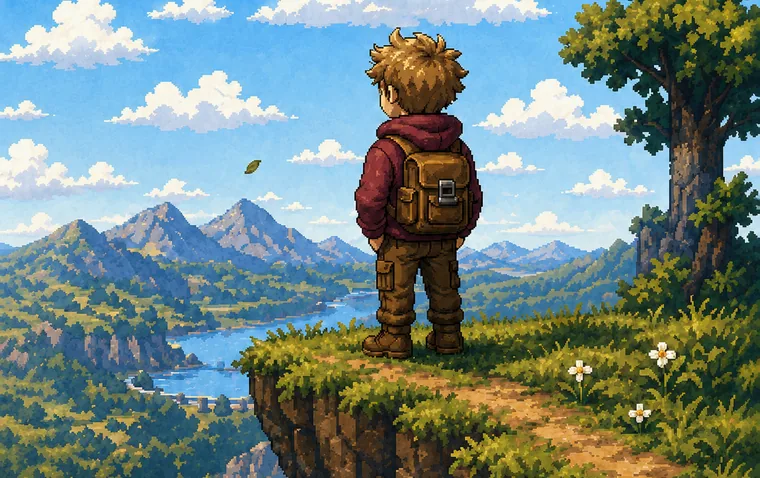
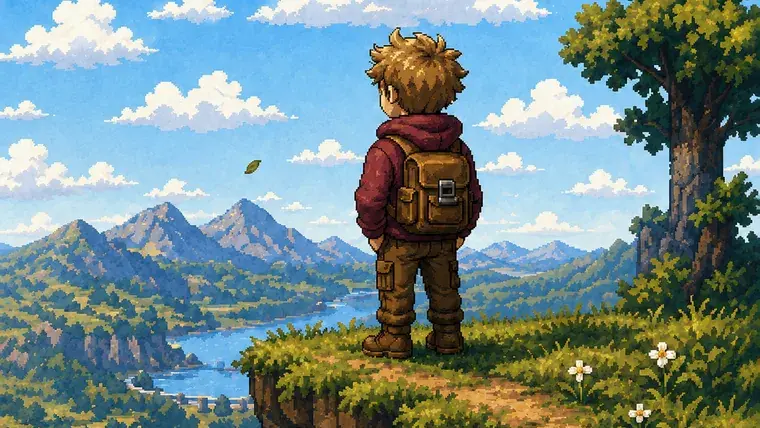
Data entry

diff --git a/src/data/experience.ts b/src/data/experience.ts
@@ -30,13 +30,22 @@ export const experience = {
 			cardDateLabel: '2022 - Present',
 			sortDate: '2026-05-01',
 			context: 'Independent studio',
-			summary:
-				'Co-founded an independent game studio with my brothers and helped self-publish Super BAWK BAWK Chicken across PC and mobile platforms.',
+			summary: 'Co-founded Daytime Devs and helped self-publish Super BAWK BAWK Chicken across PC and mobile.',
+			recognition: [
+				{
+					name: 'Best Game',
+					awardedFrom: "The Mercury's South Australian Screen Awards",
+					year: '2024',
+					emblem: {
+						src: '/assets/emblems/daytime-devs.webp',
+						alt: 'Daytime Devs award emblem.',
+					},
+				},
+			],
 			highlights: [
-				'Self-published Super BAWK BAWK Chicken on Steam for Windows and Mac in 2023, followed by Google Play and App Store releases in 2024.',
-				'Helped grow the title to 25,500+ Google Play downloads and deliver 15 updates since the 2023 demo launch.',
-				'Worked across design documentation, prototyping, C# tools and libraries, shaders, debugging, release management, and mobile porting.',
-				'Supported store publishing, marketing, conventions, and interviews while representing the studio publicly.',
+				'Released Super BAWK BAWK Chicken on Steam, Google Play, and the App Store.',
+				'Helped grow the game to 25,500+ Google Play downloads and deliver 15 updates since the 2023 demo launch.',
+				'Worked across design, C# gameplay and tools, shaders, debugging, mobile porting, store publishing, marketing, conventions, and interviews.',
 			],
 			tools: ['Unity', 'C#', 'Steam', 'Google Play', 'App Store', 'Shaders', 'Tooling'],
 		},
@@ -163,14 +172,6 @@ export const experience = {
 				{
 					src: '/assets/images/experience-solo-dev.webp',
 					alt: 'Pixel art solo developer overlooking a bright mountain valley.',
-				},
-				{
-					src: '/assets/images/project-luke-lachlan-day-website.webp',
-					alt: 'Pixel art traveler overlooking a bright mountain valley reused as a Solo Dev gallery test image.',
-				},
-				{
-					src: '/assets/images/project-petes-place.webp',
-					alt: 'Pixel art cozy forest shop scene reused as a Solo Dev gallery test image.',
 				},
 			],
 			dateLabel: '2021 - Present',

diff --git a/src/utils/images.ts b/src/utils/images.ts
@@ -36,7 +36,7 @@ export const imageDimensionsBySrc = {
 	'/assets/images/experience-daytime-devs-convention.webp': { width: 760, height: 428 },
 	'/assets/images/experience-daytime-devs-sasa-team.webp': { width: 760, height: 428 },
 	'/assets/images/experience-power-net-it-solutions.webp': { width: 760, height: 478 },
-	'/assets/images/experience-solo-dev.webp': { width: 760, height: 478 },
+	'/assets/images/experience-solo-dev.webp': { width: 760, height: 428 },
 	'/assets/images/experience-state-level-athlete-gold-medal.webp': { width: 760, height: 507 },
 	'/assets/images/experience-state-level-athlete-harbour.webp': { width: 760, height: 570 },
 	'/assets/images/experience-state-level-athlete-silver-medal.webp': { width: 760, height: 507 },
